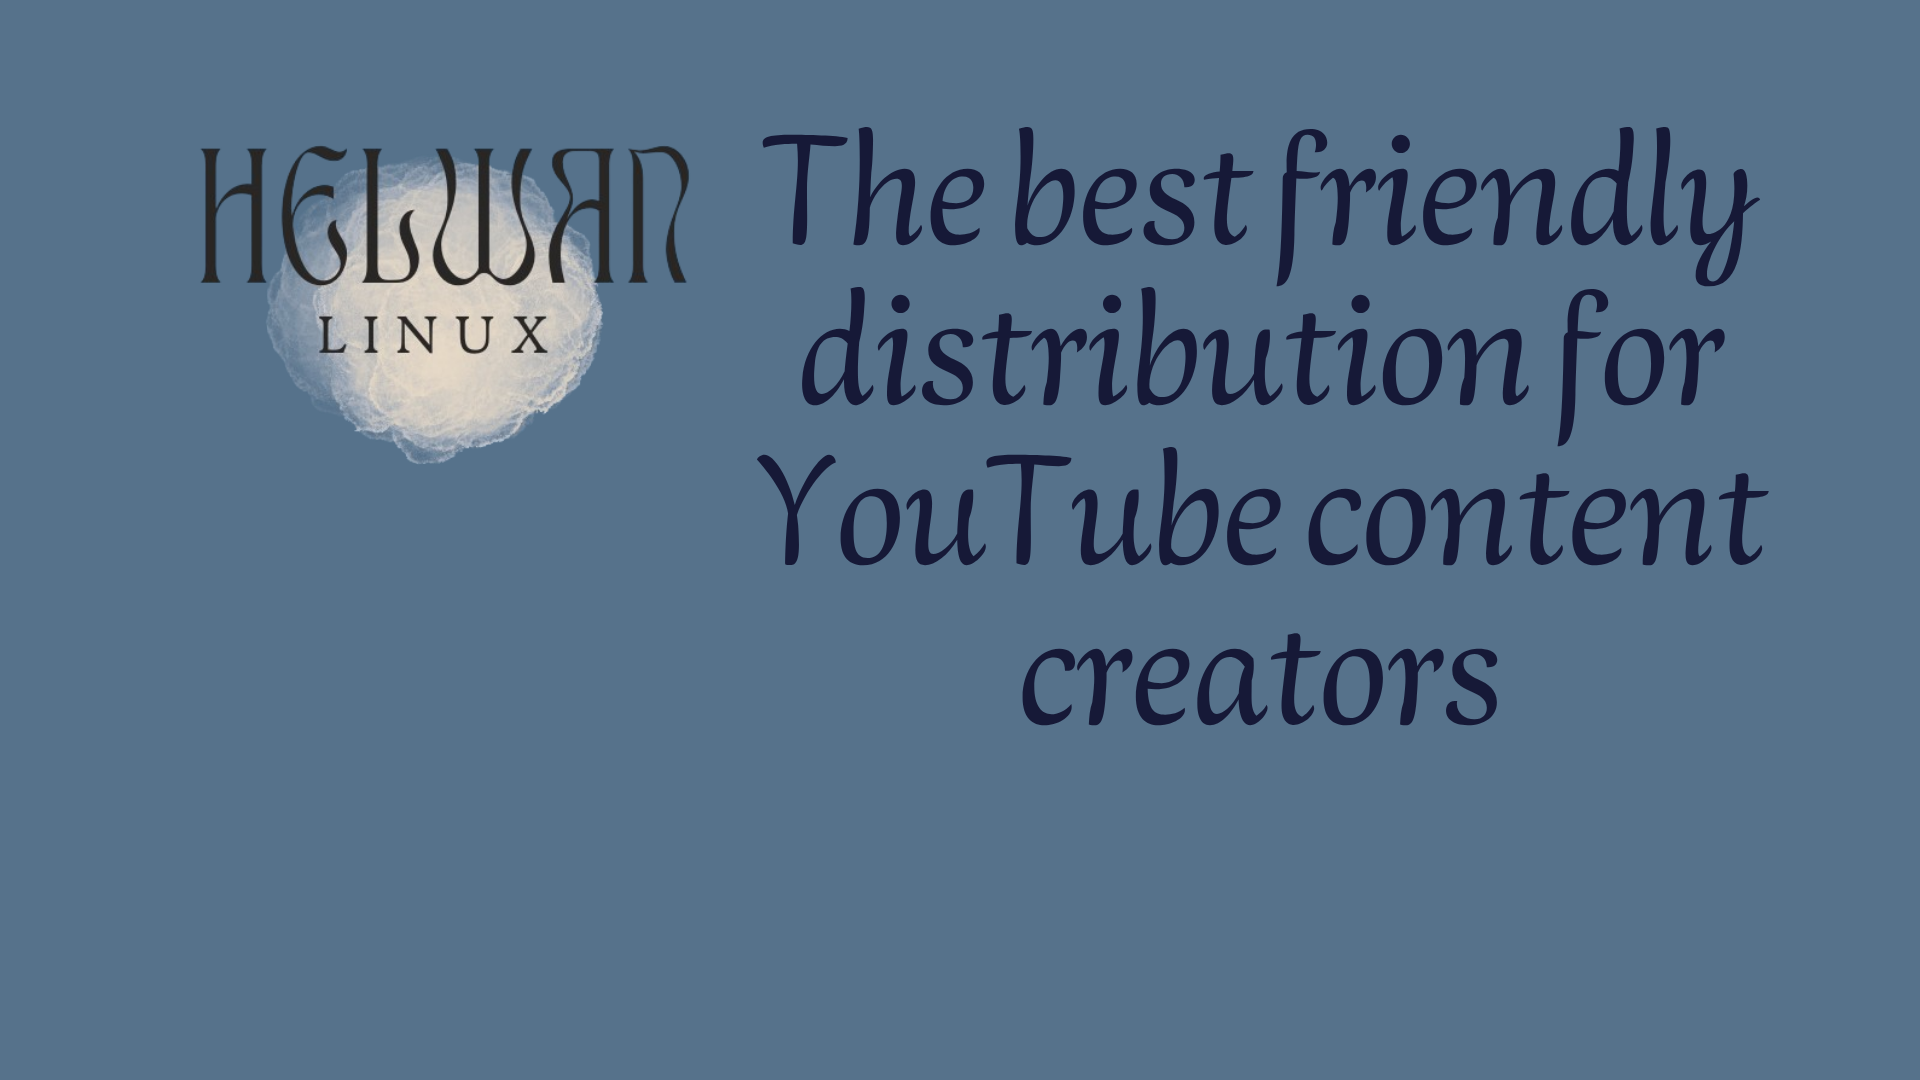
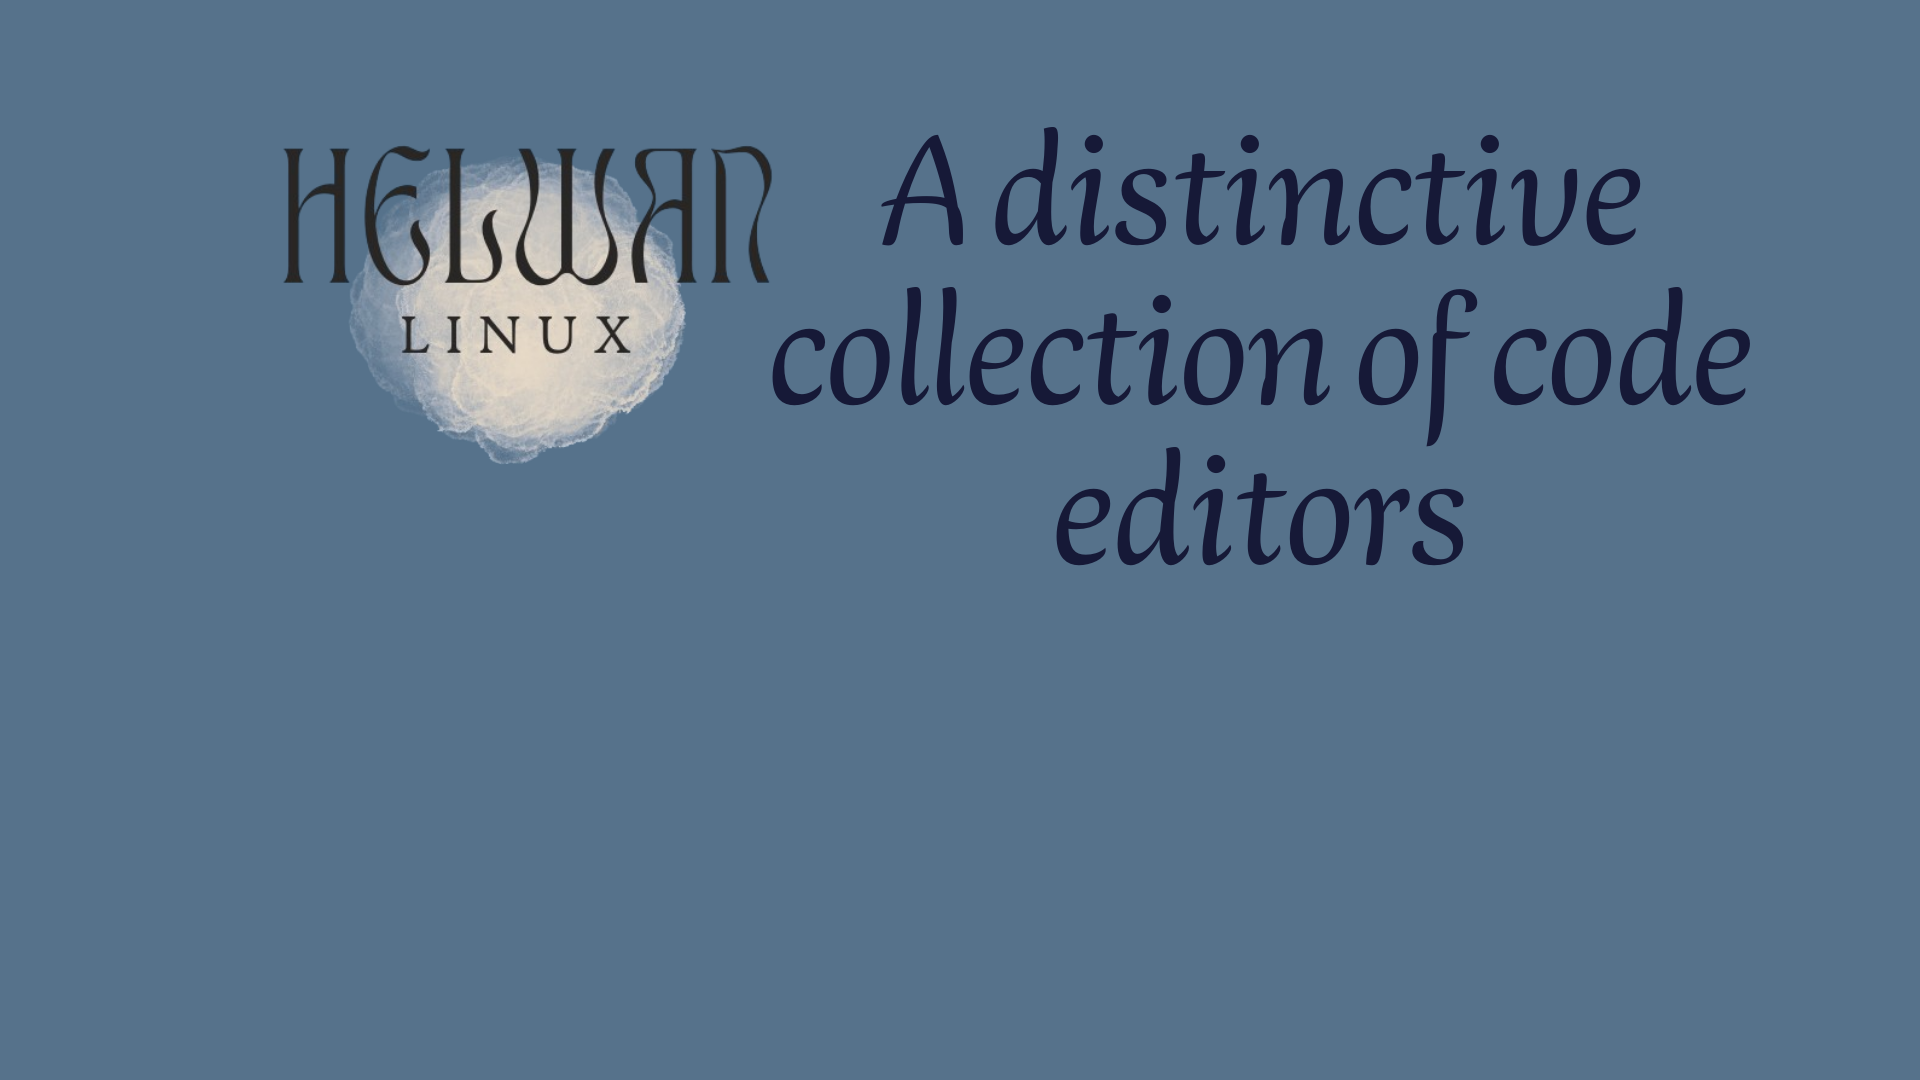
Add files via upload

Changed region(s): [[0.0938, 0.1222, 0.9375, 0.5194], [0.5312, 0.5806, 0.7812, 0.6722]]

diff --git a/etc/calamares/branding/helwan/show.qml b/etc/calamares/branding/helwan/show.qml
@@ -394,6 +394,40 @@ Slide
             anchors.fill: parent
         }
     }
+    
+    Slide
+    {
+        anchors.fill: parent
+        anchors.verticalCenterOffset: 0
+
+        Image
+        {
+            id: background22
+            source: "slide22.png"
+            width: parent.width; height: parent.height
+            horizontalAlignment: Image.AlignCenter
+            verticalAlignment: Image.AlignTop
+            fillMode: Image.Stretch
+            anchors.fill: parent
+        }
+    }
+    
+    Slide
+    {
+        anchors.fill: parent
+        anchors.verticalCenterOffset: 0
+
+        Image
+        {
+            id: background23
+            source: "slide23.png"
+            width: parent.width; height: parent.height
+            horizontalAlignment: Image.AlignCenter
+            verticalAlignment: Image.AlignTop
+            fillMode: Image.Stretch
+            anchors.fill: parent
+        }
+    }
 
 
     // When this slideshow is loaded as a V1 slideshow, only
